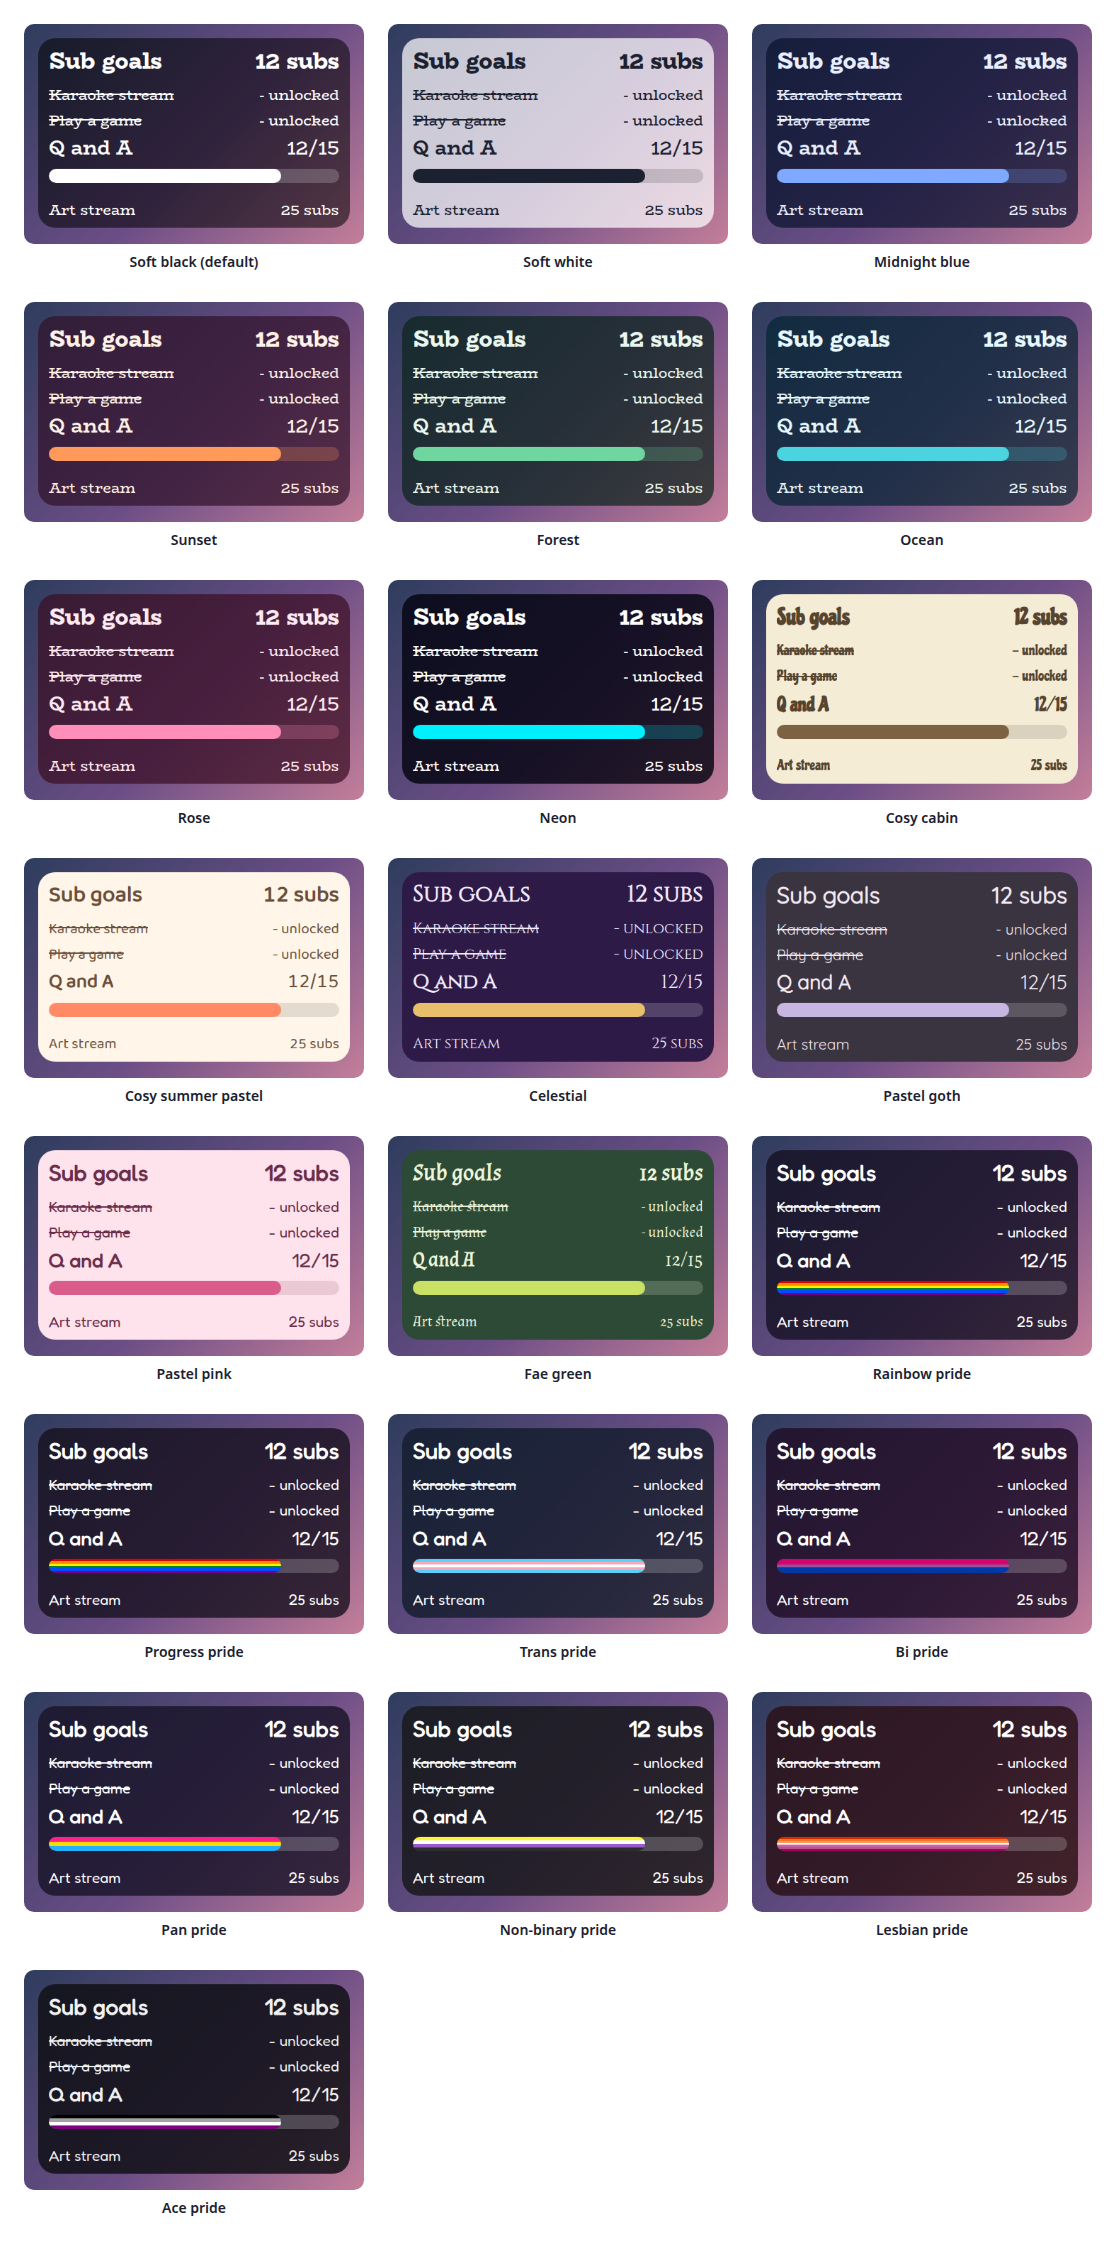
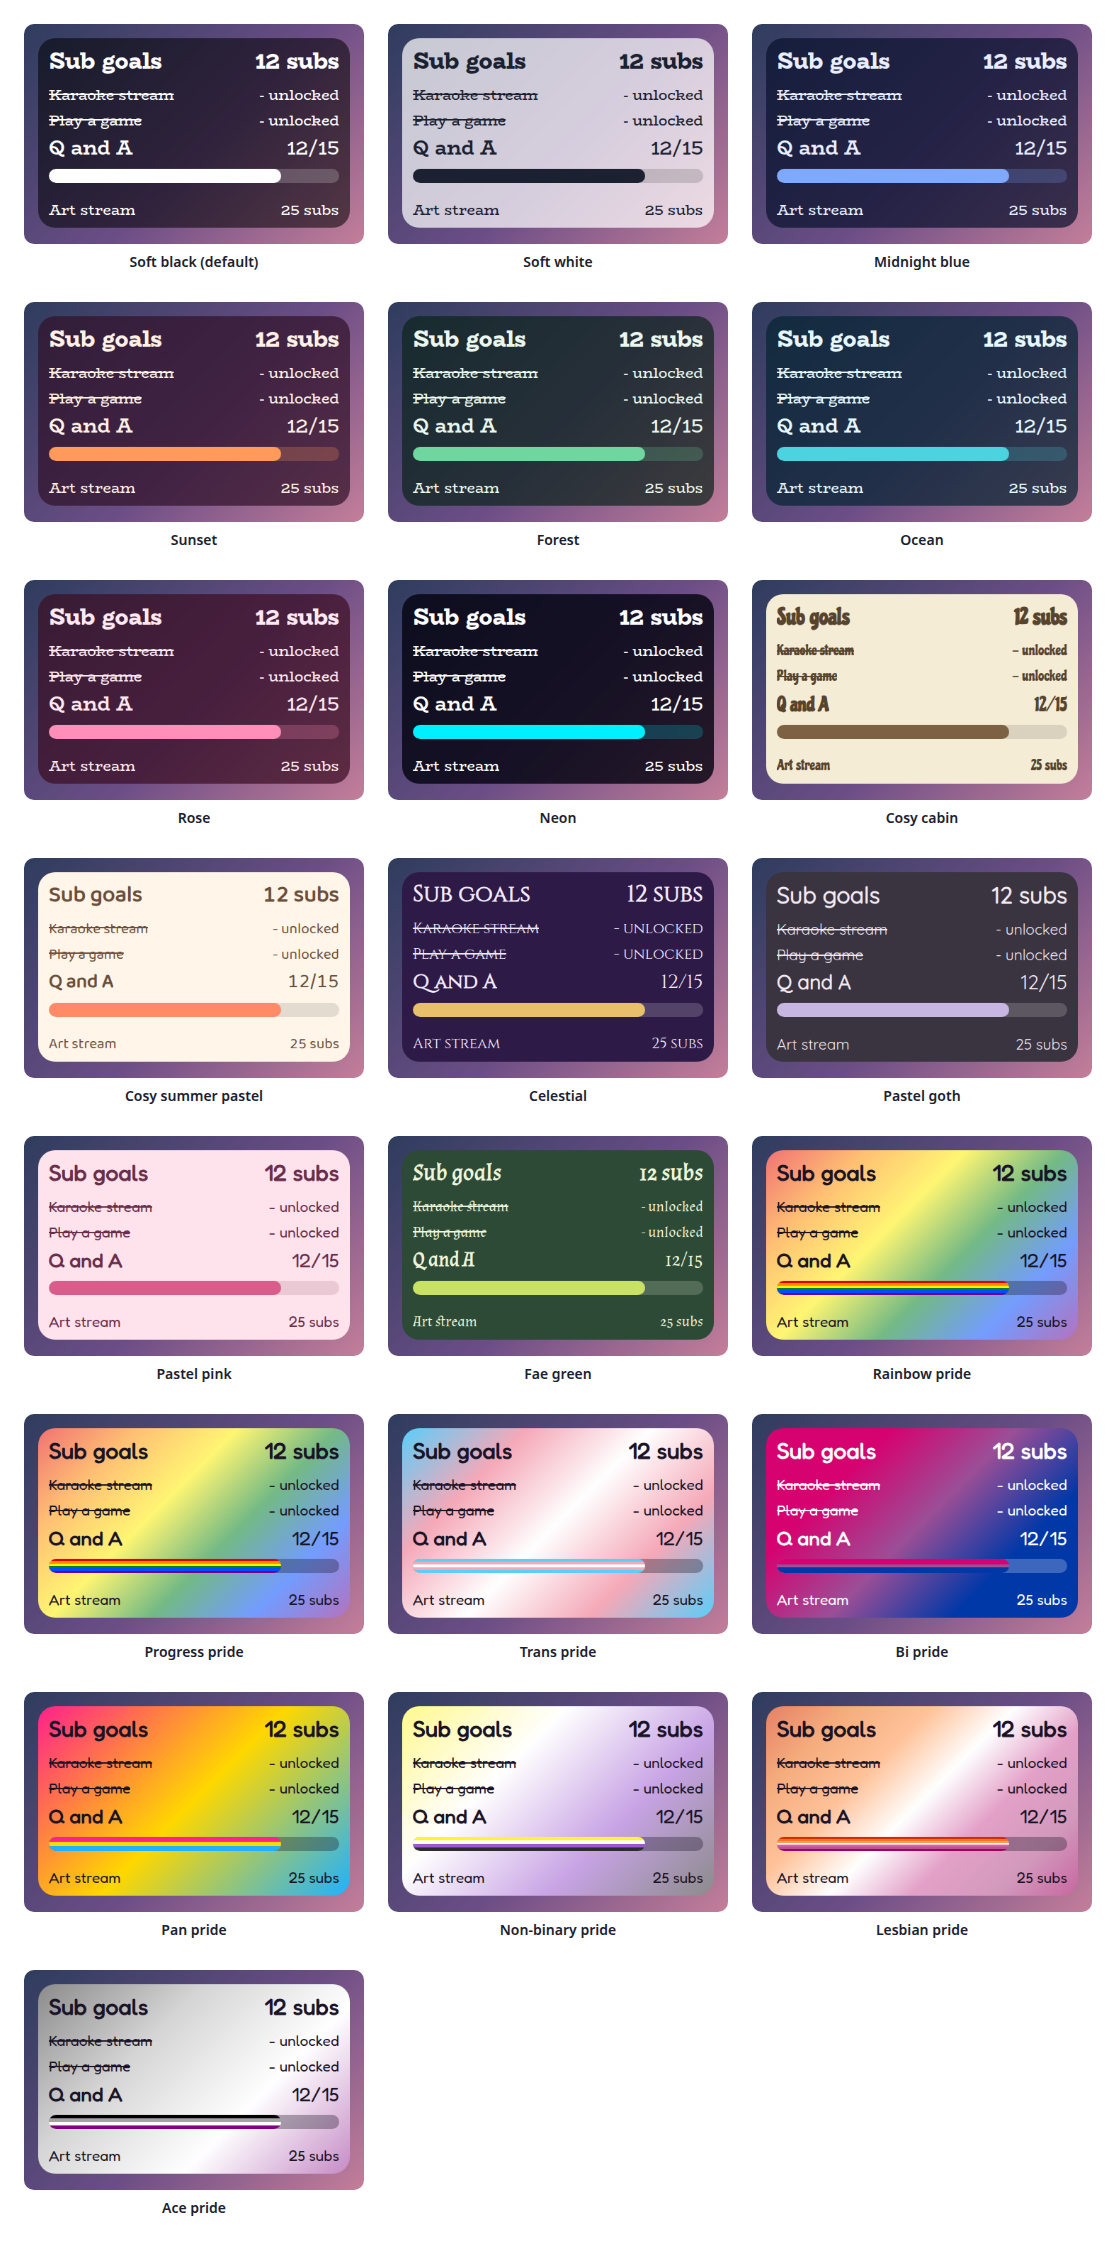
Update the gallery and README for the flag-coloured panels
The pride presets now put their flag behind the card, so the README describes that and the gallery shows it.

Changed region(s): [[0.0305, 0.6228, 0.6398, 0.8407], [0.6703, 0.4982, 0.9749, 0.8407], [0.0305, 0.8719, 0.3351, 0.9653]]

diff --git a/README.md b/README.md
@@ -59,16 +59,16 @@ One setting picks the look. The same twenty-two presets, with the same colours, 
 | Pastel goth | Charcoal and lilac, in Quicksand. |
 | Pastel pink | Soft blush pink with rose, in Fredoka. |
 | Fae green | Mossy green with a firefly lime accent, in Almendra. |
-| Rainbow pride | Dark plum with the six rainbow stripes, in Fredoka. |
-| Progress pride | The six rainbow stripes with the chevron's pink and light blue. |
-| Trans pride | Dark blue with light blue, pink and white. |
-| Bi pride | Dark violet with magenta, purple and blue. |
-| Pan pride | Dark indigo with pink, yellow and light blue. |
-| Non-binary pride | Charcoal with yellow, white, purple and black. |
-| Lesbian pride | Dark wine with the orange to pink stripes. |
-| Ace pride | Near black with grey, white and purple. |
+| Rainbow pride | A soft wash of the six rainbow stripes, in Fredoka. |
+| Progress pride | The same stripes, with the chevron's pink and light blue in the wheel and poll colours. |
+| Trans pride | Light blue, pink and white. |
+| Bi pride | Magenta, purple and blue, with white text. |
+| Pan pride | Pink, yellow and light blue. |
+| Non-binary pride | Yellow, white, purple and black, softened so the text stays readable. |
+| Lesbian pride | The orange to pink stripes. |
+| Ace pride | Black, grey, white and purple, softened so the text stays readable. |
 
-The last eight are pride presets, built from the stripes of the rainbow, progress, trans, bi, pan, non-binary, lesbian and ace flags. A bar is striped like the flag where an overlay has one, and the slices of a wheel and the options of a poll take their colours from the stripes in order. The colours follow each flag's published design, and the progress flag shows its six rainbow stripes, because its chevron is a separate shape.
+The last eight are pride presets, built from the stripes of the rainbow, progress, trans, bi, pan, non-binary, lesbian and ace flags. The card or panel wears the flag as its background, with only as much of a wash over it as the text needs to stay readable, so flags with a black stripe come out softer. A bar is striped like the flag where an overlay has one, and the slices of a wheel and the options of a poll take their colours from the stripes in order. The colours follow each flag's published design, and the progress flag shows its six rainbow stripes, because its chevron is a separate shape.
 
 Choose **Custom** to use the colour pickers and font instead. They are ignored while a preset is chosen.
 
